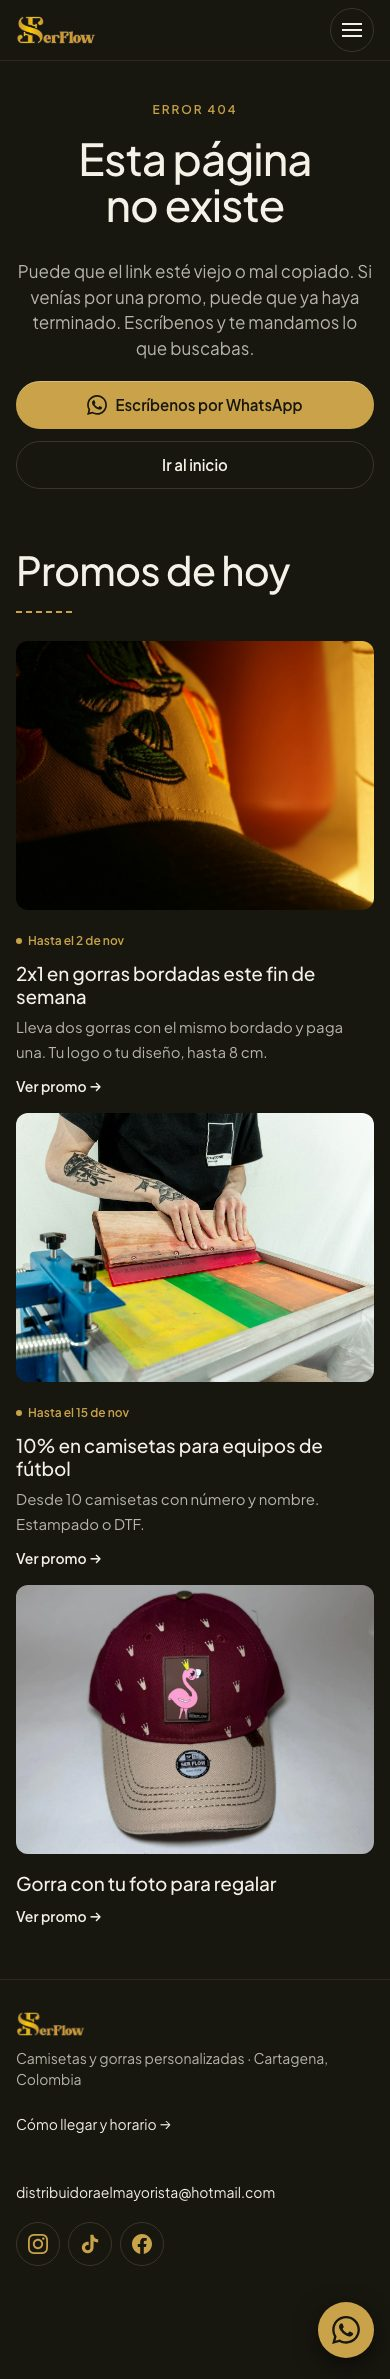
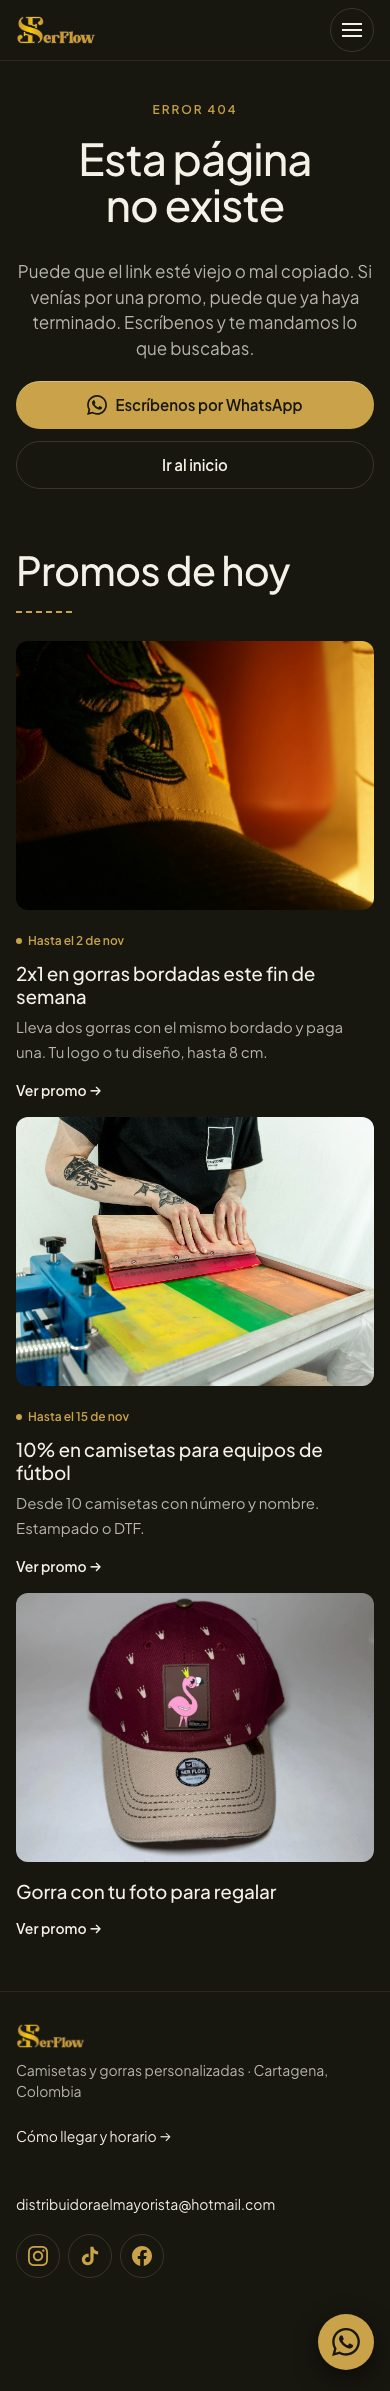
docs: PRI-286 round 3: static captures in capturas/r3 refreshed after review, closing tile centered

diff --git a/tempo/designs/canvases/refresh-oro-viejo/refresh-r3.css b/tempo/designs/canvases/refresh-oro-viejo/refresh-r3.css
@@ -151,16 +151,18 @@
   white-space: pre-line;
   display: none;
   flex-direction: column;
-  justify-content: flex-end;
+  justify-content: center;
   min-height: 100%;
-  padding: 24px;
+  padding: 32px 40px;
   border: 1px dashed var(--color-line);
   border-radius: var(--radius-tile);
-  font-size: 17px;
-  line-height: 1.45;
-  color: var(--color-muted);
+  background: var(--color-surface);
+  font-family: var(--font-display);
+  font-size: clamp(19px, 2cqi, 26px);
+  line-height: 1.3;
+  letter-spacing: -0.01em;
+  color: var(--color-ink);
 }
-.sf-r3 div.pt-5 > div.\@container > ul.columns-2::first-line { color: var(--color-ink); font-family: var(--font-display); font-size: 22px; }
 .sf-r3 div.pt-5 > div.\@container > ul.columns-2:has(> li:nth-child(2n+1):last-child)::after { display: flex; grid-column: span 1; }
 @container (min-width: 48rem) {
   .sf-r3 div.pt-5 > div.\@container > ul.columns-2::after { display: none; }
